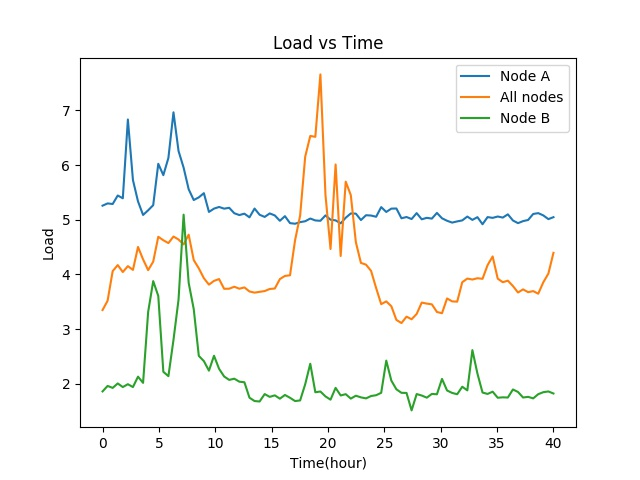
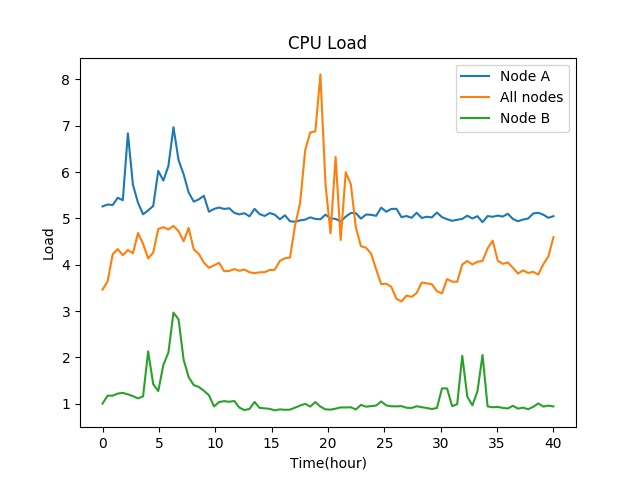
Update

diff --git a/allocator/testing_12_combined/data.py b/allocator/testing_12_combined/data.py
@@ -2,13 +2,19 @@ from matplotlib import pyplot as plt
 import numpy as np
 import os
 whole_data = {}
+vwhole_data = {}
+
 n=0
 process =  [4,8,16,32,64]
 size = [8, 16, 24, 32, 40, 48]
+
+
 for p in process:
     data = [[],[],[],[]]
+    vdata = [[],[],[],[]]
     for s in size:
         sum = [0,0,0,0]
+        times = [[],[],[],[]]
         for i in range(5):
             time_our = input() 
             time_compute = input()
@@ -20,17 +26,46 @@ for p in process:
             sum[2] = sum[2] + int(time_random) / 1000
             sum[3] = sum[3] + int(time_sequence) / 1000
 
+            times[0].append(int(time_our)/1000)
+            times[1].append(int(time_compute)/1000)
+            times[2].append(int(time_random)/1000)
+            times[3].append(int(time_sequence)/1000)
+
+        variance = [round(np.std(li) / np.mean(li),3) for li in times]
+        vdata = variance
         data[0] = data[0] + [sum[0]/5]
         data[1] = data[1] + [sum[1]/5]
         data[2] = data[2] + [sum[2]/5]
         data[3] = data[3] + [sum[3]/5]
 
     whole_data[p] = data
-
-print(n)
+    vwhole_data[p] = vdata
 
 print(whole_data)
+vmat = np.array([vwhole_data[key] for key in  vwhole_data.keys() ])[1:,:]
+vari = vmat.mean(axis=0)
+print(vmat,vari)
 
+
+# sizesrt = 0
+# sizeend = 3
+# size = [8, 16, 24 ]
+
+# sizesrt = 3
+# sizeend = 6
+# size = [32, 40, 48]
+
+# sizesrt = 0
+# sizeend = 6
+# size = [8, 16, 24, 32, 40, 48]
+
+sizesrt = 1
+sizeend = 2
+size = [ 16 ]
+
+print(size)
+process =  [8,16,32,64]
+print(process)
 def find_avg_imp(base, idx):
     max_impr = 0
     min_impr = 100000000
@@ -38,14 +73,14 @@ def find_avg_imp(base, idx):
     for p in process:
         data = whole_data[p]
         impr_sum = 0
-        for i in range(6):
+        for i in range(sizesrt,sizeend):
             impr = ( data[idx][i] - data[base][i]) / data[idx][i]
             impr_sum = impr_sum + impr
             if impr > max_impr:
                 max_impr = impr
             if impr < min_impr:
                 min_impr = impr
-        avg_impr = avg_impr + impr_sum/6
+        avg_impr = avg_impr + impr_sum/(sizeend-sizesrt)
     
     avg_impr = avg_impr / len(process)
     print("Max Impv:" + str(max_impr*100))
@@ -59,60 +94,58 @@ find_avg_imp(0,2)
 print("\nNetwork/load over Load")
 find_avg_imp(0,1)
 
-print("\n Load over Sequential")
-find_avg_imp(1,3)
+# print("\n Load over Sequential")
+# find_avg_imp(1,3)
+# print("\n Load over Random")
+# find_avg_imp(1,2)
+# print("\n Sequence over Random")
+# find_avg_imp(3,2)
 
-print("\n Load over Random")
-find_avg_imp(1,2)
-
-print("\n Sequence over Random")
-find_avg_imp(3,2)
-
-for p in process:
-    x = [e * e * e * 4 / 1000 for e in size]
-    plt.plot(x, whole_data[p][2], label='random', marker='.', color='red')
-    plt.plot(x, whole_data[p][3], label='sequential',  marker='.')
-    plt.plot(x, whole_data[p][1], label='load aware',  marker='.')
-    plt.plot(x, whole_data[p][0], label='network and load aware',  marker='.')
+# for p in process:
+#     x = [e * e * e * 4 / 1000 for e in size]
+#     plt.plot(x, whole_data[p][2], label='random', marker='.', color='red')
+#     plt.plot(x, whole_data[p][3], label='sequential',  marker='.')
+#     plt.plot(x, whole_data[p][1], label='load aware',  marker='.')
+#     plt.plot(x, whole_data[p][0], label='network and load aware',  marker='.')
     
     
 
-    plt.xlabel('Number of atoms(10^3 atoms)')
-    plt.ylabel('Time(seconds)')
+#     plt.xlabel('Number of atoms(10^3 atoms)')
+#     plt.ylabel('Time(seconds)')
 
-    plt.title("Time vs Atoms , Processes = " + str(p) + ", PPN = 4, Nodes = " + str(p//4))
+#     plt.title("Time vs Atoms , Processes = " + str(p) + ", PPN = 4, Nodes = " + str(p//4))
 
-    plt.legend()
-    plt.savefig('process_count{0}.jpg'.format(p))
-    plt.close()
+#     plt.legend()
+#     plt.savefig('process_count{0}.jpg'.format(p))
+#     plt.close()
 
-x = [4,8,16,32,64]
-s = 4 # i.e  prob size = 40
-for s in range(6):
-    pdata = []
-    for each in x:
-        pdata.append(whole_data[each][2][s])
-    plt.plot(x, pdata, label='random', marker='.')
-    pdata = []
-    for each in x:
-        pdata.append(whole_data[each][3][s])
-    plt.plot(x, pdata, label='sequential',  marker='.')
+# x = [4,8,16,32,64]
+# s = 4 # i.e  prob size = 40
+# for s in range(6):
+#     pdata = []
+#     for each in x:
+#         pdata.append(whole_data[each][2][s])
+#     plt.plot(x, pdata, label='random', marker='.')
+#     pdata = []
+#     for each in x:
+#         pdata.append(whole_data[each][3][s])
+#     plt.plot(x, pdata, label='sequential',  marker='.')
 
-    pdata = []
-    for each in x:
-        pdata.append(whole_data[each][1][s])
-    plt.plot(x, pdata, label='load aware',  marker='.')
+#     pdata = []
+#     for each in x:
+#         pdata.append(whole_data[each][1][s])
+#     plt.plot(x, pdata, label='load aware',  marker='.')
 
-    pdata = []
-    for each in x:
-        pdata.append(whole_data[each][0][s])
-    plt.plot(x, pdata, label='network and load aware',  marker='.')
+#     pdata = []
+#     for each in x:
+#         pdata.append(whole_data[each][0][s])
+#     plt.plot(x, pdata, label='network and load aware',  marker='.')
 
-    plt.xlabel('Number of Processes')
-    plt.ylabel('Time(seconds)')
-    plt.xticks(np.arange(0,72,8))
-    plt.title("Time vs Process Count , Number of atoms = " + str(size[s]*size[s]*size[s]*4) )
+#     plt.xlabel('Number of Processes')
+#     plt.ylabel('Time(seconds)')
+#     plt.xticks(np.arange(0,72,8))
+#     plt.title("Time vs Process Count , Number of atoms = " + str(size[s]*size[s]*size[s]*4) )
 
-    plt.legend()
-    plt.savefig("strong_scale" + str(s) + ".jpg")
-    plt.close()
+#     plt.legend()
+#     plt.savefig("strong_scale" + str(s) + ".jpg")
+#     plt.close()

diff --git a/eagle/data/data1/node_data.py b/eagle/data/data1/node_data.py
@@ -82,7 +82,7 @@ import numpy as np
 
 with open("data.pickle", "rb") as db:
     node_data = pickle.load(db)
-
+del node_data[12]
 all_stamp = []
 all_load = []
 all_util = []
@@ -112,17 +112,22 @@ for i in range(100):
     all_bw.append(bw/count)
     all_mem.append(mem/count)    
 
-print(all_stamp)
+print(node_data.keys())
 
 node_data["all"] = [all_load, all_util, all_bw, all_mem, all_mem, all_stamp]
 
 def plot_fig(node_data,keys, index, title, label , filename, y, x):
     plt.figure()
+    
     for key in keys :
         value = node_data[key]
         if value == None or len(value) != 6 or len(value[5]) < 100:
+            print("bro",len(value),len(value[5]))
             continue
-        plt.plot(list(np.linspace(0,40,90)), value[index][0:90], label=label[key])
+        if key == "all":
+            plt.plot(list(np.linspace(0,40,90)), value[index][0:90], label=label[key])
+        else:
+            plt.plot(list(np.linspace(0,40,90)), value[index][0:90], label=label[key])
 
     plt.legend()
     plt.xlabel(x)
@@ -130,13 +135,24 @@ def plot_fig(node_data,keys, index, title, label , filename, y, x):
     plt.title(title)
     plt.savefig(filename + '.jpg')
 
-keys = [ 25,"all", 12  ]
-label = {25: "Node A", 12 : "Node B" , "all" : "All nodes"}
+# keys = [ 25,"all", 12  ]
+# label = {25: "Node A", 12 : "Node B" , "all" : "All nodes"}
+k2 = 16
+k1 = 25
 
-plot_fig(node_data, keys, 0, "Load vs Time", label , "load", "Load" , "Time(hour)")
-plot_fig(node_data, keys, 1, "Utilization vs Time", label,  "util", "% Utilization", "Time(hour)" )
-plot_fig(node_data, keys, 2, "Node Network Usage vs Time", label, "bw", "Network Traffic(MBps)" , "Time(hour)")
-plot_fig(node_data, keys, 3, "Memory Usage vs Time", label,"mem", "Memory Usage(GB)", "Time(hour)")
+keys = [ k1,"all", k2 ]
+label = {k1: "Node A", k2 : "Node B" , "all" : "All nodes"}
+
+plot_fig(node_data, keys, 0, "CPU Load", label , "load", "Load" , "Time(hour)")
+plot_fig(node_data, keys, 1, "CPU Utilization", label,  "util", "% Utilization", "Time(hour)" )
+plot_fig(node_data, keys, 3, "Memory Usage", label,"mem", "Memory Usage(GB)", "Time(hour)")
+
+
+# k2 = 4
+# k1 = 1
+keys = [ k1,"all", k2 ]
+label = {k1: "Node A", k2 : "Node B" , "all" : "All nodes"}
+plot_fig(node_data, keys, 2, "Node Network Usage", label, "bw", "Network Traffic(MBps)" , "Time(hour)")
 
 # for key in sorted(node_data.keys()) :
 #     value = node_data[key]
